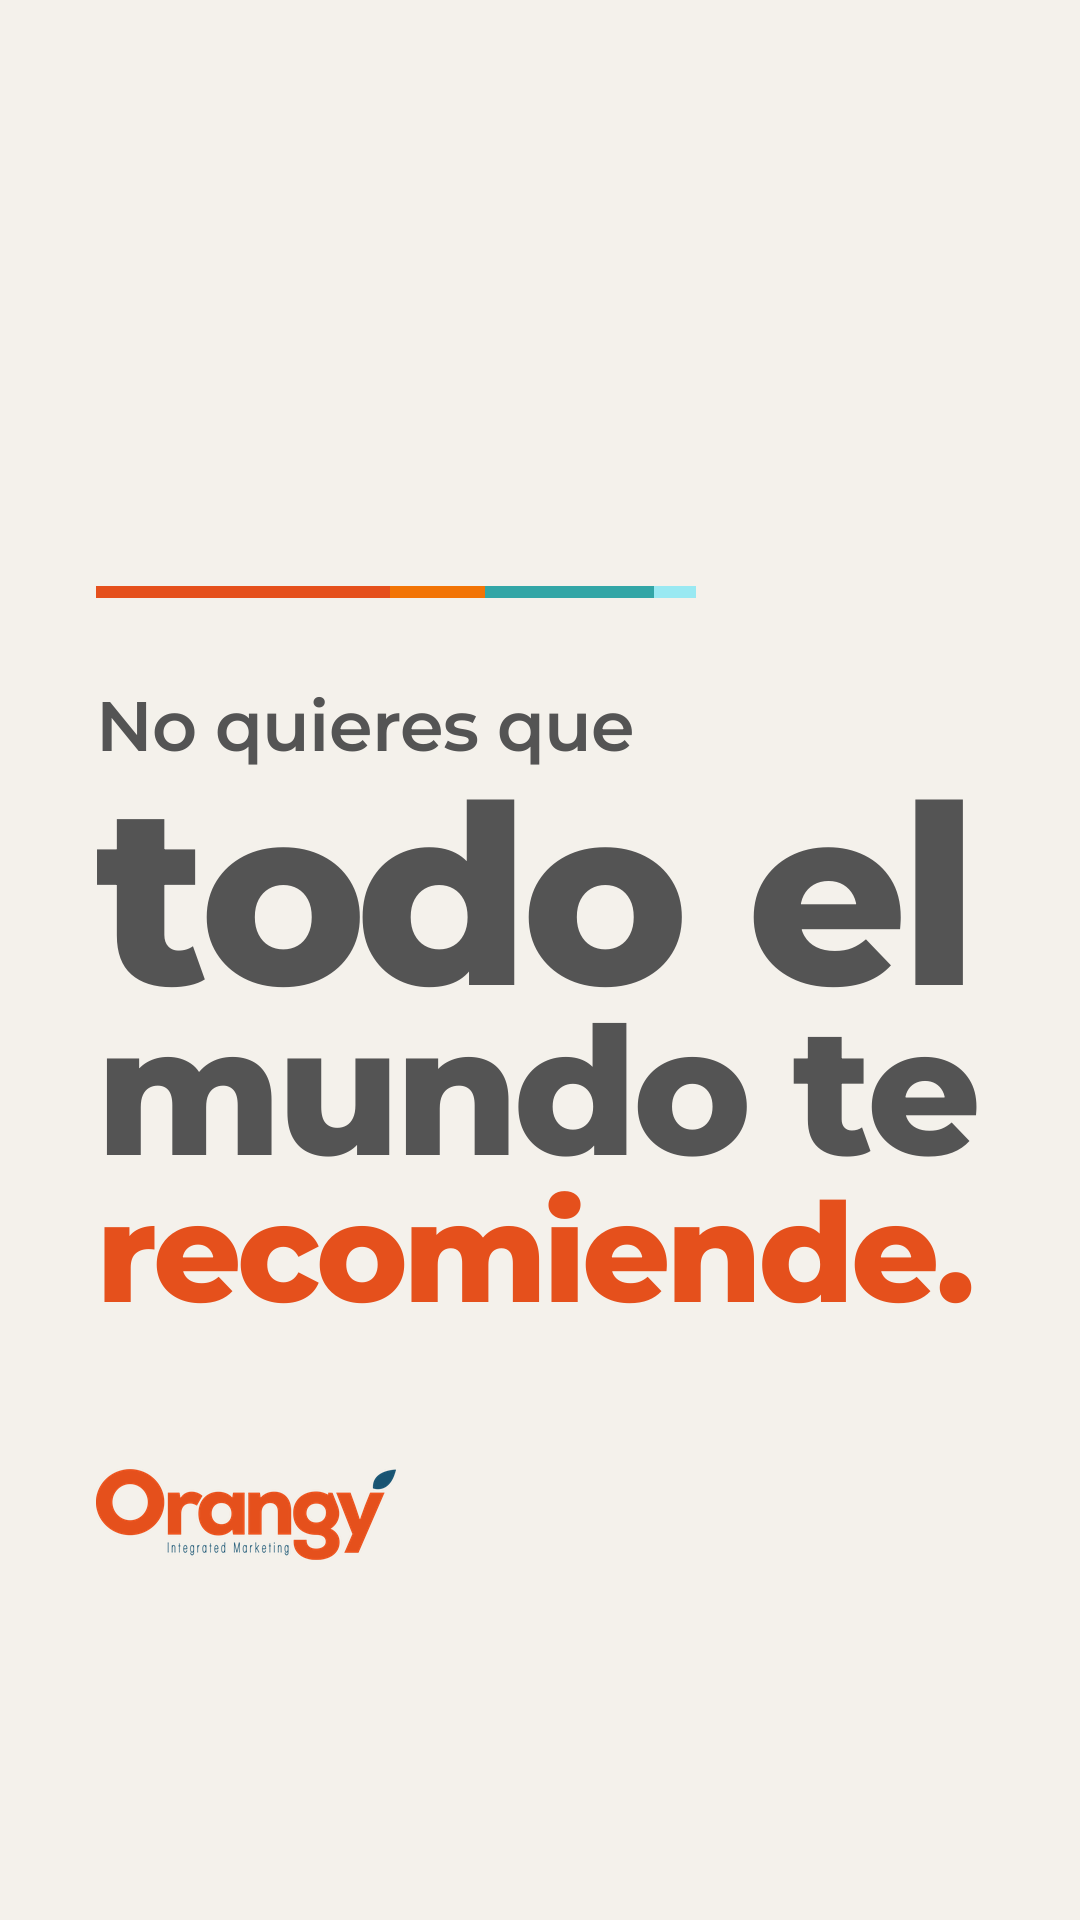
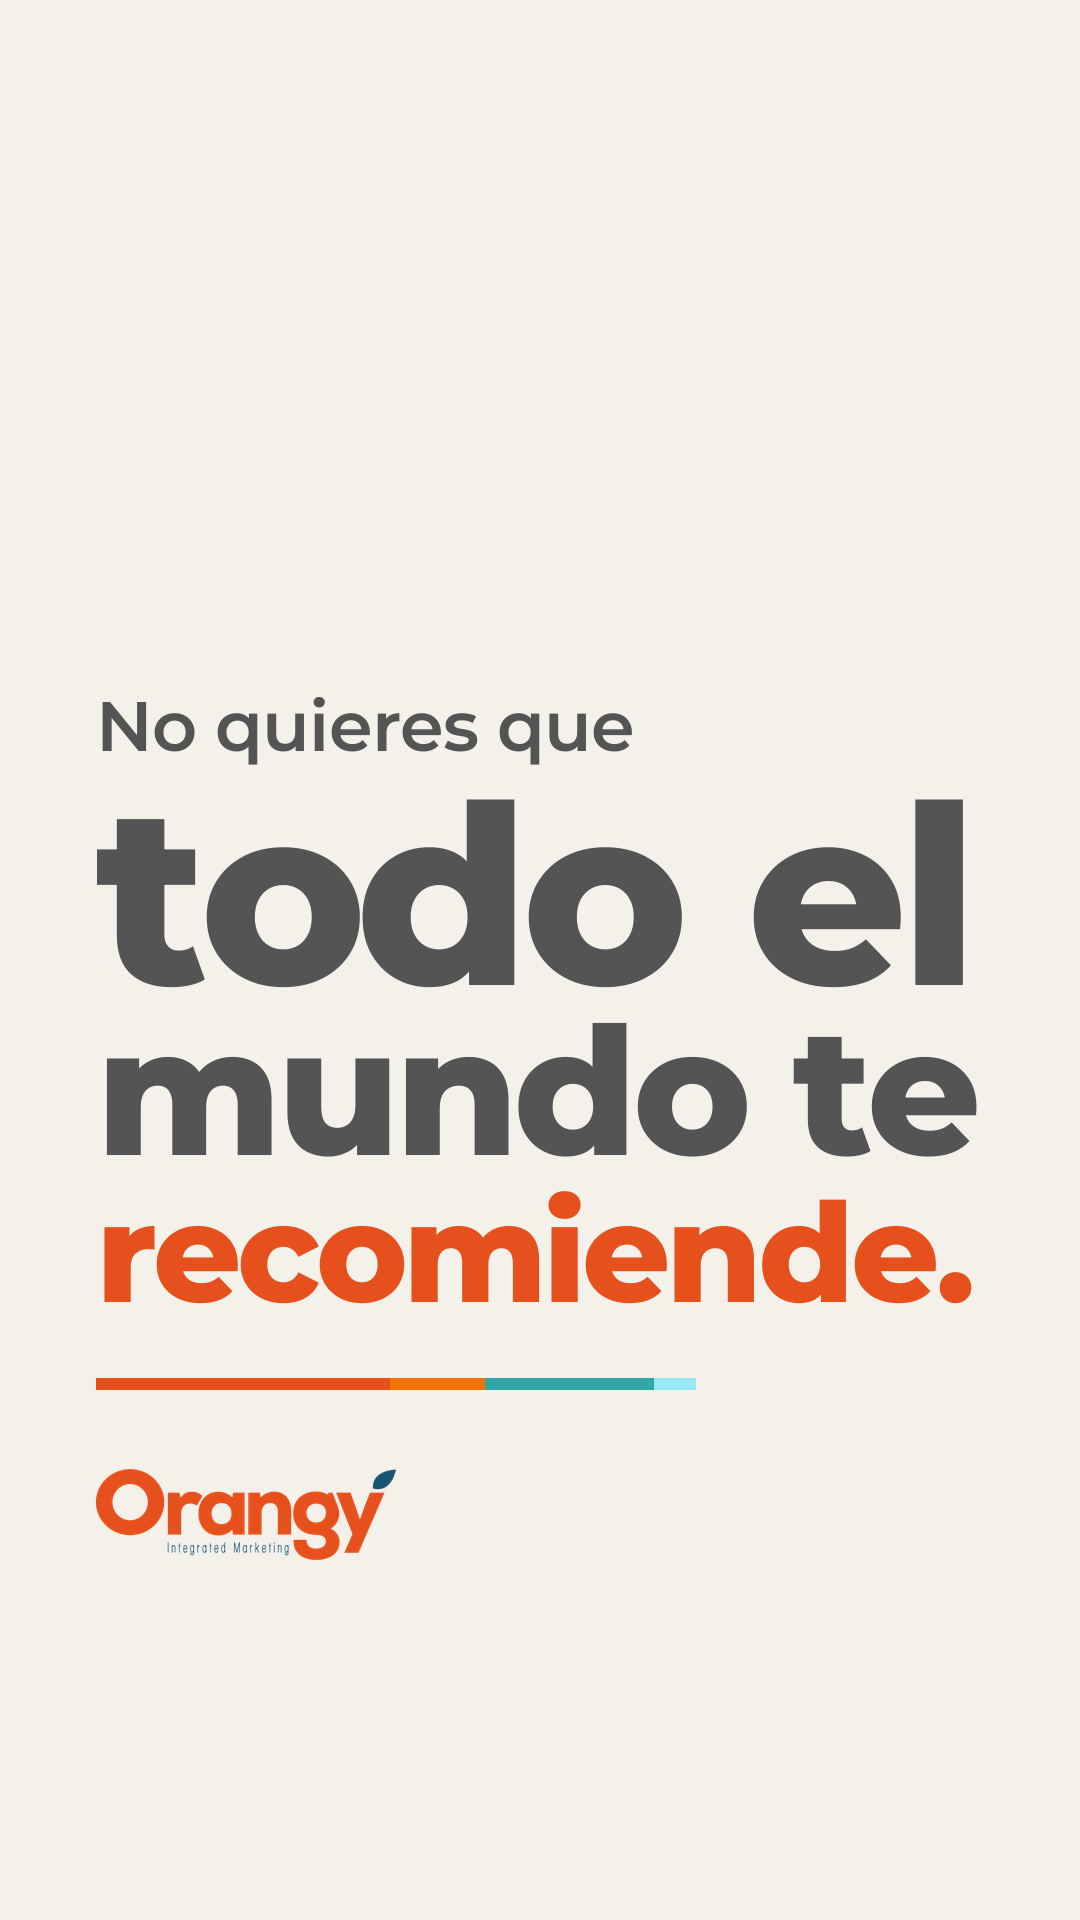
Reels: portada tipográfica con la barra debajo de la frase
Claude-Session: https://claude.ai/code/session_01GUR6NCne43riRydgyJWMEV

Changed region(s): [[0.0917, 0.7188, 0.6417, 0.75], [0.0917, 0.2812, 0.6417, 0.3125]]

diff --git a/reels/reel-01/portada-tipo.py b/reels/reel-01/portada-tipo.py
@@ -18,10 +18,10 @@ for t, w, c, s in lineas:
     s = s or ajusta(t, w); f = fuente(s, w); bb = f.getbbox(t); bloques.append((t, f, s, c, bb))
 alto = sum(bb[3] - bb[1] for *_, bb in bloques) + 34 * (len(bloques) - 1)
 y = 960 - alto // 2 + 40                       # centrado óptico dentro del recorte 3:4 (y 240–1680)
-x = X0
-for col, pct in BARRA: w = 600 * pct / 97.7; d.rectangle([x, y - 110, x + w - 1, y - 99], fill=col); x += w
 for t, f, s, c, bb in bloques:
     dibuja(d, X0, y - bb[1], t, f, -.03 * s if s > 100 else -.01 * s, c); y += bb[3] - bb[1] + 34
+x = X0; y += 40                                # barra debajo de la frase
+for col, pct in BARRA: w = 600 * pct / 97.7; d.rectangle([x, y, x + w - 1, y + 11], fill=col); x += w
 logo = Image.open('/home/user/portafolio/img/logo-orangy.png').convert('RGBA'); logo = logo.resize((300, round(300 * logo.height / logo.width)), Image.LANCZOS)
 img.paste(logo, (X0, 1560 - logo.height), logo)
 img.save('reel-01-portada-tipografica.png'); print([(t, s) for t, f, s, c, bb in bloques])
